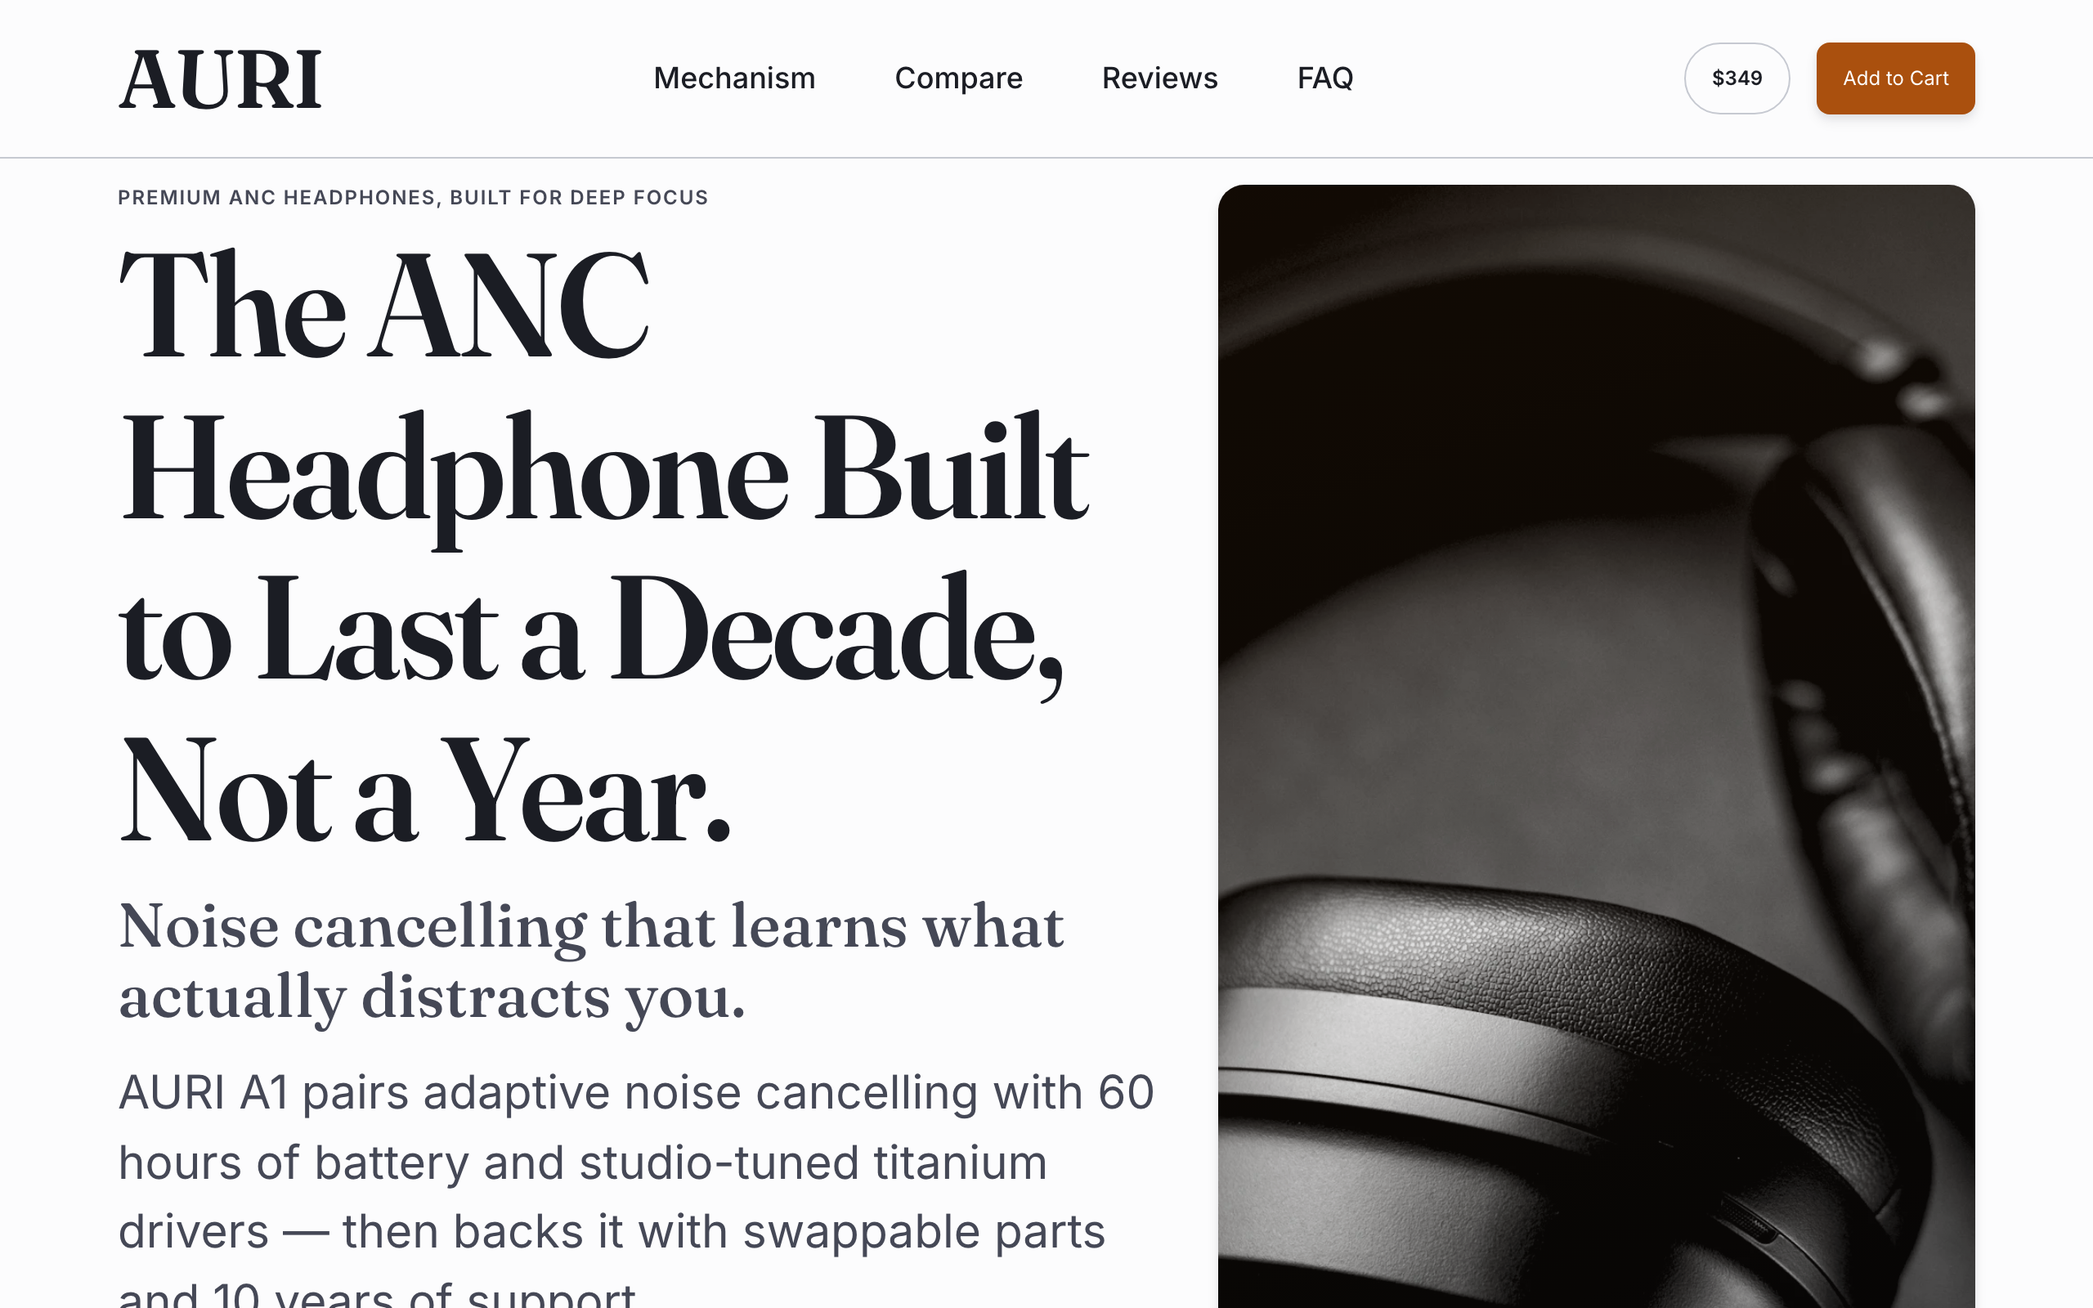
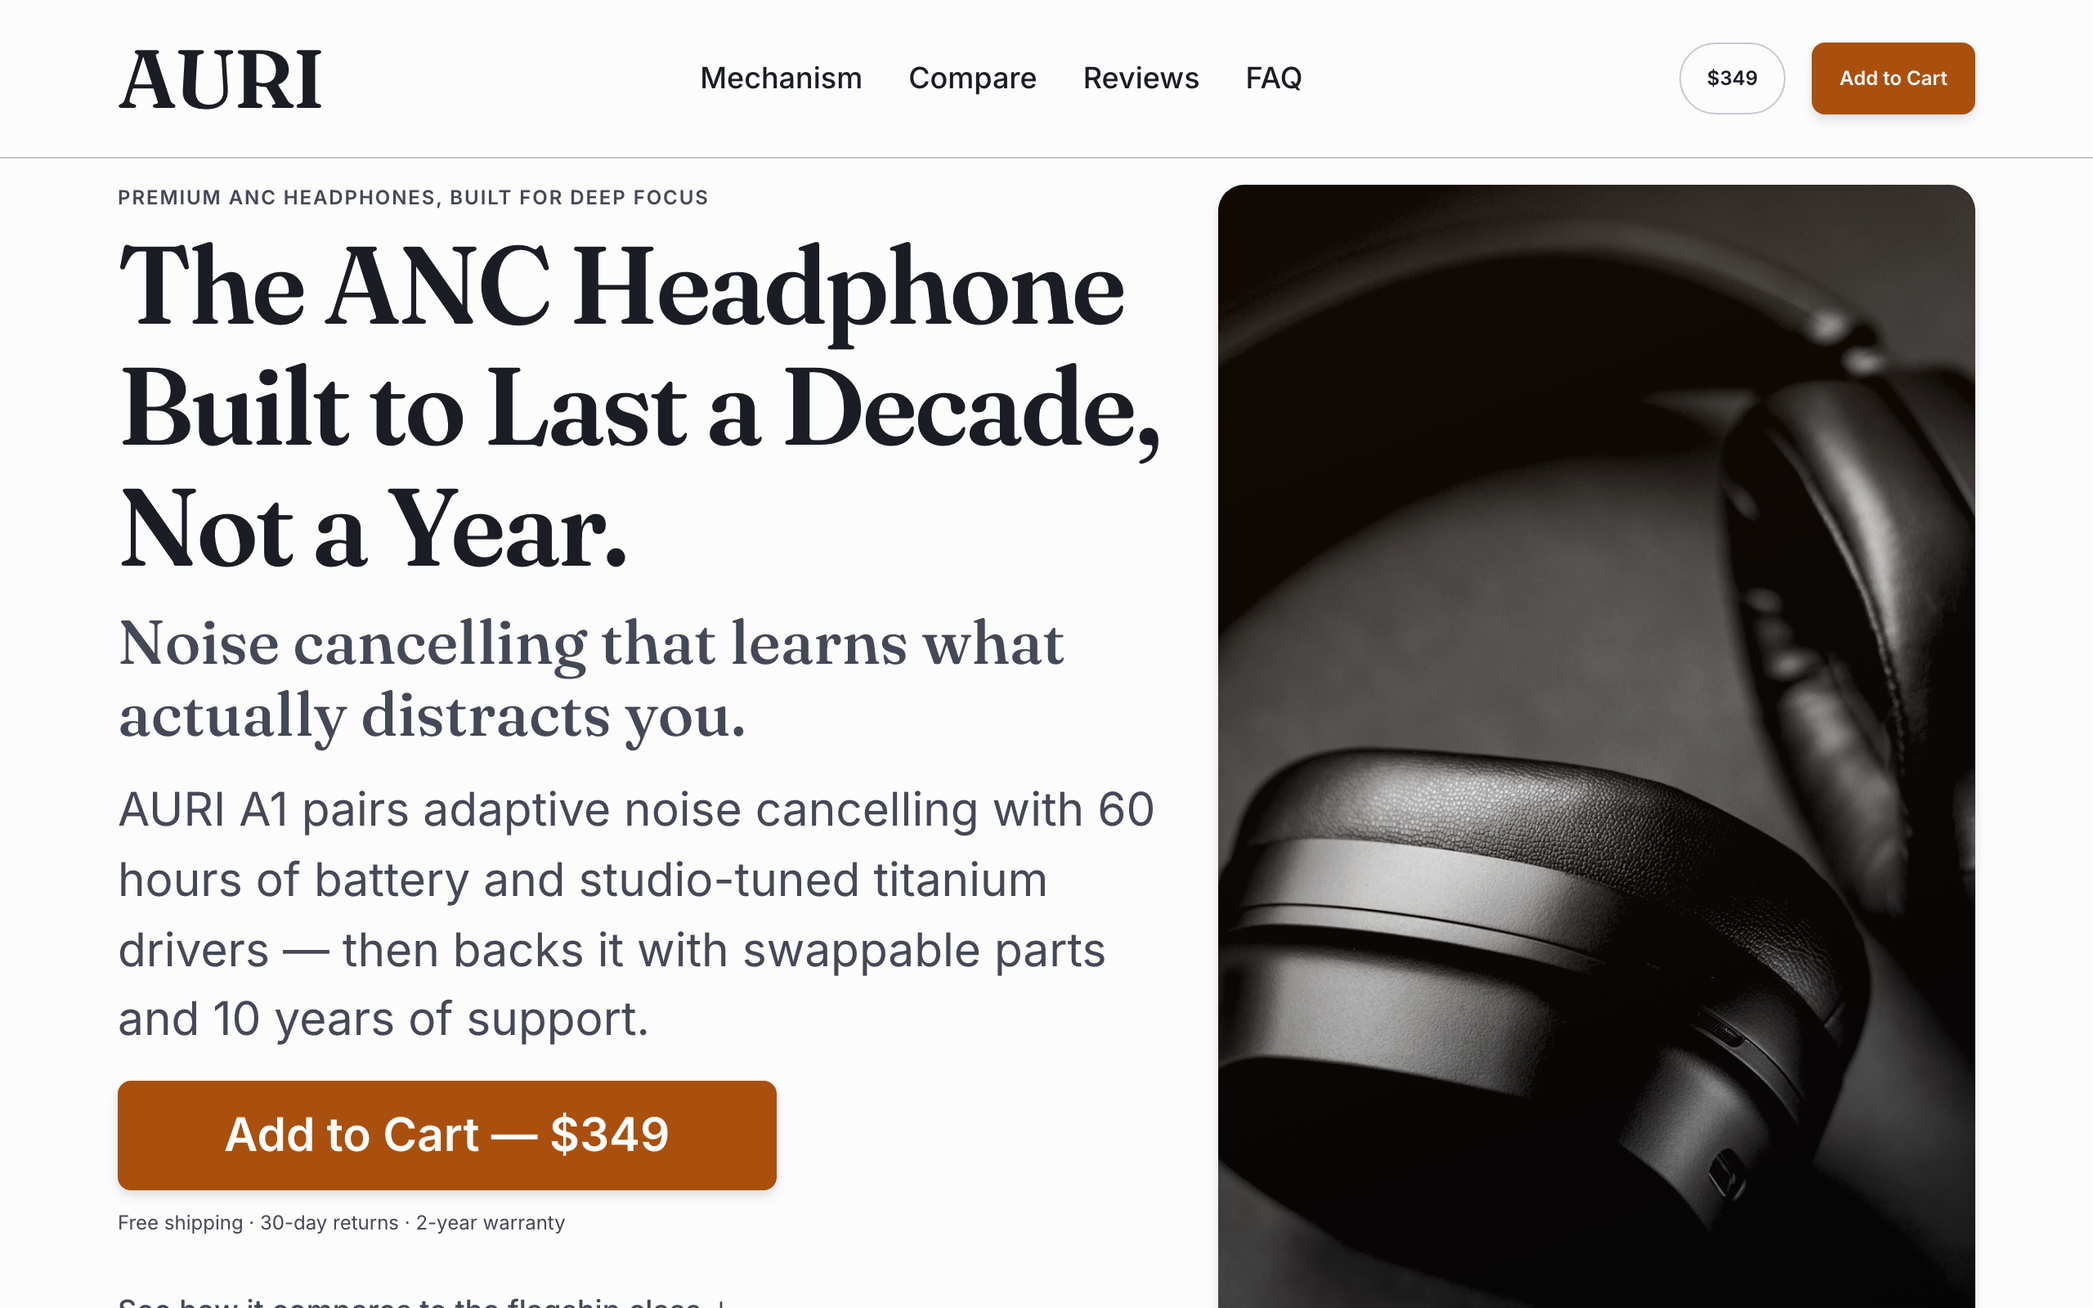
Fix resubmit audit: 3 BLOCKERs + 7 MAJORs; geometry-audit gains regression guards
B1: a comment containing a token wildcard ending in */ closed early and
silently dropped the entire .btn rule — every source gate passed while
all buttons rendered unstyled. Fixed, documented, and now mechanically
guarded: geometry-audit accepts --assert selector:property:expected.
B2: measure caps moved onto text elements (p/li/self-matching), real-CPL
check added to geometry-audit (glyph-advance based, not ch). B3+M5: the
hero H1 gets one continuous clamp (28px@375 -> 67.3px@1280) replacing the
sub-480 remap — no size cliff, desktop CTA back above the 800px fold,
enforced by the new --fold-selector guard at every viewport. M2: silence
photo re-graded to full tonal range. M3/M4: hero photo holds the page's
left line as a full-width 8/3 strip on an 8px-grid padding. M6: middot
pseudo-separators removed (undeclared contrast pairs + orphan glyphs).
M7: btn-lg gets real leading. Nav gap compressed at 768 after the new
overflow guard caught a 12px regression from the 44px nav-link floor.

diff --git a/demo/styles.css b/demo/styles.css
@@ -137,7 +137,9 @@ p { color: var(--color-text-primary); }
 /* Body-copy measure inside narrow sections: the 45.5rem section cap serves
    the grid (M1), but Inter at 18px runs ~87 real CPL at that width — cap
    running paragraphs separately to stay under the 80-CPL body ceiling. */
-.narrow-measure p:not(.pull-quote) { max-width: 56ch; }
+.narrow-measure :is(p, li):not(.pull-quote),
+p.narrow-measure { max-width: 56ch; }
+.footer-legal p { max-width: 56ch; }
 
 .narrow-measure {
   max-width: 45.5rem;
@@ -212,15 +214,21 @@ p { color: var(--color-text-primary); }
   margin-inline-start: var(--space-2);
 }
 
+main [id] { scroll-margin-top: var(--space-10); } /* anchor jumps clear the 97px sticky header with real breathing room */
+
 /* ---------------------------------------------------------------------- */
 /* Buttons                                                                 */
 /* ---------------------------------------------------------------------- */
 /* Shared layout/behavior only — geometry (padding, radius, min-height)
-   comes from each variant below via its own --button-primary-*/
-   --button-secondary-* component tokens, not a shared primitive here,
+   comes from each variant below via its own component tokens
+   (button-primary / button-secondary families), not a shared primitive,
    so the two variants can independently retune their footprint without
    touching the other (design-tokens R2: product CSS reads the
-   COMPONENT tier, never a primitive, for a component that has one). */
+   COMPONENT tier, never a primitive, for a component that has one).
+   NB: never write a token wildcard ending in asterisk-slash inside this
+   comment — that sequence closes the comment early and silently drops
+   the entire .btn rule (caught by audit 2026-08-12; geometry-audit now
+   asserts .btn font-weight as the regression guard). */
 .btn {
   display: inline-flex;
   align-items: center;
@@ -322,6 +330,7 @@ p { color: var(--color-text-primary); }
 .btn-secondary:disabled { opacity: 0.55; cursor: default; }
 
 .btn-lg {
+  line-height: var(--leading-heading);
   padding-block: var(--space-4);
   padding-inline: var(--space-8);
   font-size: var(--type-lead-size);
@@ -504,7 +513,11 @@ p { color: var(--color-text-primary); }
     position: static;
     flex-direction: row;
     align-items: center;
-    gap: var(--space-6);
+    /* space-3, not space-6: at 768px the 44px-minimum links (touch-target
+       floor, applied horizontally too) plus 32px gaps overflowed the
+       container by 12px — caught by geometry-audit's overflow check. Links
+       carry their own padding, so the visual rhythm holds at 12px gaps. */
+    gap: var(--space-3);
     padding: 0;
     border-bottom: 0;
     background-color: transparent;
@@ -516,7 +529,7 @@ p { color: var(--color-text-primary); }
   }
   /* Keep the 44px target floor on desktop too — layout-spacing R6/R7 applies
      at every viewport, not just touch devices (geometry-audit enforces it). */
-  .nav-menu li a { min-height: var(--target-min); padding-block: 0; padding-inline: var(--space-2); }
+  .nav-menu li a { min-height: var(--target-min); min-width: var(--target-min); justify-content: center; padding-block: 0; padding-inline: var(--space-2); }
   .nav-toggle { display: none; }
 }
 
@@ -636,7 +649,7 @@ p { color: var(--color-text-primary); }
   pointer-events: none;
 }
 
-/* M5 — the distinctive brand asset, above the fold. The waveform divider
+/* M5 — the distinctive brand asset on the hero itself (above the fold on mobile; at 1280x800 the strip rides the photo's bottom edge just below the fold). The waveform divider
    (its other job is the mechanism/final-cta section breaks) repeats along
    the bottom edge of the HERO photo specifically — scoped to
    .hero-visual, not every .photo-frame, so this stays a one-time hero
@@ -742,13 +755,15 @@ p { color: var(--color-text-primary); }
    3 lines/98.1px) to buy the difference back. 2.3px of slack left — tight,
    correct as measured, revisit before adding anything else above the CTA. */
 @media (max-width: 479px) {
-  .hero { padding-block-start: var(--space-3); }
+  .hero { padding-block-start: var(--space-2); } /* 8px - on the 8px base grid (M3); was 12px (4px sub-grid, off-limits for section layout) */
   /* 16rem wide (set on .hero-visual above) on a 16:8 crop of the same
      landscape source — 128px tall instead of 213.6px. Cropped tighter
      than the 16:10 this used to be (160px) to help buy back the fold
      budget the M14 type re-anchor spent — see the accounting below. */
+  .hero-visual-wrap { justify-content: flex-start; }
+  .hero-visual { max-width: 100%; }
   .hero-visual img {
-    aspect-ratio: 16 / 8;
+    aspect-ratio: 8 / 3;
     object-fit: cover;
   }
   /* Row rhythm tightened one notch (32px → 16px) for the same reason —
@@ -792,11 +807,6 @@ p { color: var(--color-text-primary); }
   font-size: var(--text-xs);
   font-weight: var(--font-weight-medium);
   color: var(--color-text-secondary);
-}
-.trust-badge + .trust-badge::before {
-  content: "·";
-  margin-inline-end: var(--space-4);
-  color: var(--color-border-subtle);
 }
 .trust-badge-rating {
   color: var(--color-text-primary);
@@ -1264,14 +1274,6 @@ p { color: var(--color-text-primary); }
 }
 .testimonial-name { font-weight: var(--font-weight-semibold); color: var(--color-text-primary); }
 .testimonial-role { color: var(--color-text-secondary); }
-.testimonial-card .verified-tag { margin-inline-start: var(--space-2); }
-.verified-tag {
-  padding-block: var(--space-1);
-  padding-inline: var(--space-2);
-  border-radius: var(--radius-full);
-  background-color: var(--color-bg-component);
-  font-size: var(--text-xs);
-}
 
 /* ---------------------------------------------------------------------- */
 /* Pricing section                                                         */
@@ -1567,11 +1569,6 @@ p { color: var(--color-text-primary); }
 .payment-icons li {
   font-size: var(--text-xs);
   color: var(--color-text-inverse-muted);
-}
-.payment-icons li + li::before {
-  content: "·";
-  margin-inline-end: var(--space-4);
-  color: var(--color-border-on-inverse);
 }
 
 .footer-legal {

diff --git a/demo/index.html b/demo/index.html
@@ -150,7 +150,7 @@
     <div class="container narrow-measure">
       <h2 id="relevance-heading">You've Already Tried to Buy Your Way Out of Distraction</h2>
 
-      <p>You're not shopping for your first pair of ANC headphones. You already own one — probably the $150 &ldquo;good enough&rdquo; pair that seemed fine in the store and then let you down in the open-plan office, on back-to-back calls, or three hours into a deep-work block when the battery died. Or you're pricing a $400+ flagship and wondering if it actually buys you anything the cheap pair didn't.</p>
+      <p>You're not shopping for your first pair of ANC headphones. You already own one — probably the $150 &ldquo;good enough&rdquo; pair that seemed fine in the store and then let you down in the open-plan office, on back-to-back calls, or three hours into a deep-work block when the battery died. Or you're pricing a $400+ flagship and wondering if it actually buys you anything the $150 pair didn't.</p>
 
       <p>AURI A1 is built for exactly this moment: remote and hybrid professionals who need real silence to do real work, and who are done gambling $150 at a time on headphones that get replaced every 12–18 months.</p>
 
@@ -308,7 +308,6 @@
           <footer>
             <span class="testimonial-name">Priya Nataraj</span><span class="testimonial-role">, Senior Data Analyst, remote</span>
             <span class="fictional-tag">(fictional demo testimonial)</span>
-            <span class="verified-tag">Verified buyer</span>
           </footer>
         </li>
         <li class="testimonial-card">
@@ -316,7 +315,6 @@
           <footer>
             <span class="testimonial-name">Marcus Webb</span><span class="testimonial-role">, Freelance Software Engineer</span>
             <span class="fictional-tag">(fictional demo testimonial)</span>
-            <span class="verified-tag">Verified buyer</span>
           </footer>
         </li>
         <li class="testimonial-card">
@@ -324,7 +322,6 @@
           <footer>
             <span class="testimonial-name">Sofia Andrade</span><span class="testimonial-role">, Design Lead, hybrid</span>
             <span class="fictional-tag">(fictional demo testimonial)</span>
-            <span class="verified-tag">Verified buyer</span>
           </footer>
         </li>
       </ul>

diff --git a/demo/tokens.css b/demo/tokens.css
@@ -460,7 +460,7 @@
   --type-lead-size: var(--text-lg);
   --type-h3-size: var(--text-2xl);
   --type-h2-size: var(--text-3xl);
-  --type-h1-size: var(--text-4xl); /* remapped to --text-2xl below 480px — see the media query at the
+  --type-h1-size: clamp(1.75rem, 0.7325rem + 4.3431vw, 4.2075rem); /* dedicated continuous hero clamp: 28px@375 -> 67.3px@1280 (anchors x1=375, x2=1280). One curve at every width - no breakpoint remap, so no size cliff at 480 (M5), and the 67.3px ceiling keeps the desktop hero CTA above the 800px fold (B3). Superseded note: previously var(--text-4xl) with a sub-480 remap — see the media query at the
                                        bottom of this file for why, and for the fold math */
   /* --type-hero-size (--text-5xl) was declared for a hero-scale display
      step above H1 and never reached for anywhere — the hero headline
@@ -607,8 +607,3 @@
    blew the fold budget, so the remap steps down one rung to --text-2xl
    (floor now 37.9px, up from the old 26px) and the hero stack was
    re-tightened again to buy back the difference — see styles.css. */
-@media (max-width: 479px) {
-  :root {
-    --type-h1-size: var(--text-2xl);
-  }
-}

diff --git a/demo/COPY.md b/demo/COPY.md
@@ -110,7 +110,7 @@ Validated against real users? **N.** Not yet run against a ≥5-point Likert stu
 `Free shipping · 30-day returns · 2-year warranty`
 
 **Hero image alt text:**
-`AURI A1 titanium over-ear headphones, side profile, on a dark studio desk`
+`AURI A1 over-ear headphones resting on dark textile, the leather ear cushions catching low studio light`
 
 **Secondary link in hero (low visual weight, not a competing CTA):**
 `See how it compares to the flagship class ↓` *(anchor-links to Section 7)*
@@ -143,7 +143,7 @@ Validated against real users? **N.** Not yet run against a ≥5-point Likert stu
 ## You've Already Tried to Buy Your Way Out of Distraction
 
 **Body copy:**
-> You're not shopping for your first pair of ANC headphones. You already own one — probably the $150 "good enough" pair that seemed fine in the store and then let you down in the open-plan office, on back-to-back calls, or three hours into a deep-work block when the battery died. Or you're pricing the flagship ANC class and wondering if $400+ actually buys you anything the cheap pair didn't.
+> You're not shopping for your first pair of ANC headphones. You already own one — probably the $150 "good enough" pair that seemed fine in the store and then let you down in the open-plan office, on back-to-back calls, or three hours into a deep-work block when the battery died. Or you're pricing the flagship ANC class and wondering if $400+ actually buys you anything the $150 pair didn't.
 
 > AURI A1 is built for exactly this moment: remote and hybrid professionals who need real silence to do real work, and who are done gambling $150 at a time on headphones that get replaced every 12–18 months.
 
@@ -258,7 +258,7 @@ Validated against real users? **N.** Not yet run against a ≥5-point Likert stu
 > "I paid $429 for a flagship pair two years ago and never loved the ANC presets — one of them always let the office AC through. AURI's adaptive ANC actually adjusted to my apartment in about three days. I didn't expect that to matter this much."
 > **— Priya Nataraj, Senior Data Analyst, remote** *(fictional demo testimonial)*
 
-**Testimonial 2 — switched from the cheap tier:**
+**Testimonial 2 — switched from the $150 tier:**
 > "Third pair of $150 headphones in two years, all of them dead or falling apart. I was skeptical about spending $349, but the 10-year repair promise is the first time a headphone company has said 'we expect you to keep these,' instead of 'buy the next model in 18 months.'"
 > **— Marcus Webb, Freelance Software Engineer** *(fictional demo testimonial)*
 

diff --git a/skills/pixel-qa/SKILL.md b/skills/pixel-qa/SKILL.md
@@ -32,12 +32,16 @@ no partial credit — a check either passes a number or it doesn't.
    `var(--…)` token, never a raw px/rem/em/ms literal. Inside `:root`, spacing/gap tokens must
    sit on the 4px grid. `/* lint-allow */` is an escape hatch, not a default — every use needs a
    written justification in the QA report. [LAW] — tools/spacing-lint.mjs; layout-spacing.md R1-3
-4. Run `node tools/geometry-audit.mjs <served url>` (requires system Chrome; serve the page
+4. Run `node tools/geometry-audit.mjs <served url> --fold-selector "<primary CTA selector>" --assert "<key selector>:font-weight:<expected>"` (requires system Chrome; serve the page
    first, e.g. `python3 -m http.server 4173 --directory demo`). This measures RENDERED pixels
-   at 375/768/1280 and fails on: horizontal page overflow, input-vs-button row misalignment
+   at 375x667/768/1280 and fails on: horizontal page overflow, input-vs-button row misalignment
    >1px, touch targets under 44px, mixed rendered heights within one button class, and
-   squished images. Source lint passing does NOT imply this passes — an 18px form
-   misalignment and 40px nav links have both shipped through source-only checks. [LAW] —
+   squished images; plus three regression guards: real-CPL per text element (>80 fails; measured
+   via the element's own glyph advance, never the ch unit), the declared primary-CTA fold
+   contract at every viewport, and computed-style assertions that catch silent CSS parse
+   breakage (a stray */ in a comment once dropped the entire .btn rule while every source gate
+   passed). Source lint passing does NOT imply this passes — an 18px form
+   misalignment, 40px nav links and that dead .btn rule all shipped through source-only checks. [LAW] —
    tools/geometry-audit.mjs; layout-spacing.md R6-7
 
 **Accessibility checklist — unified across keyboard, structure, and content**

diff --git a/agents/qa-inspector.md b/agents/qa-inspector.md
@@ -10,7 +10,7 @@ Before working, read `skills/pixel-qa/SKILL.md` and execute its full protocol.
 
 Rules:
 - Run `node tools/spacing-lint.mjs <css>` and `node tools/contrast-check.mjs <css>` — both must exit clean. Paste their output in your report; never summarize a failure away.
-- Run `node tools/geometry-audit.mjs <served url>` (serve the page first; requires system Chrome) — measures rendered pixels at 375/768/1280: overflow, form-row alignment, 44px touch targets, button-height consistency, image squish. Source lint passing does not imply this passes.
+- Run `node tools/geometry-audit.mjs <served url> --fold-selector "<primary CTA>" --assert "<key selector>:font-weight:<expected>"` (serve first; requires system Chrome) — rendered pixels at 375x667/768/1280: overflow, form-row alignment, 44px touch targets, button-height consistency, image squish, real CPL (>80 fails), the CTA fold contract, and computed-style regression asserts. Source lint passing does not imply this passes.
 - Verify accessibility mechanically: heading order, landmarks, alt texts, focus visibility, touch targets ≥44px, contrast per token role.
 - Verify performance hygiene: image dimensions declared, lazy-loading below fold, no render-blocking waste, font loading strategy.
 - Report format: PASS/FAIL per check, with file:line for every failure. A single FAIL means the build returns to the UI Craftsman.

diff --git a/demo/img/CREDITS.md b/demo/img/CREDITS.md
@@ -11,7 +11,7 @@ from its ground at >=3:1 on key edges — see composition-grids figure-ground ru
 - `driver-1x/2x.webp` — Unsplash photo `1510766315117-0f791eb90af7` (perforated speaker-grille
   macro; illustrates the titanium-driver block; distinct source from the hero photo)
 - `silence-1x/2x.webp` — Unsplash photo `1603715749723-240c88df18b1` (acoustic-foam wave texture;
-  illustrates the adaptive-ANC "engineered silence" block; no people, no brand marks)
+  illustrates the adaptive-ANC "engineered silence" block; no people, no brand marks; strong shadow-lift grade at source so the wave relief reads at >=120 luminance levels)
 
 No identifiable people appear in any demo photo (the earlier lifestyle portrait was replaced per
 the strategy rule "no stock people wearing a different product" and the model-release nuance).
